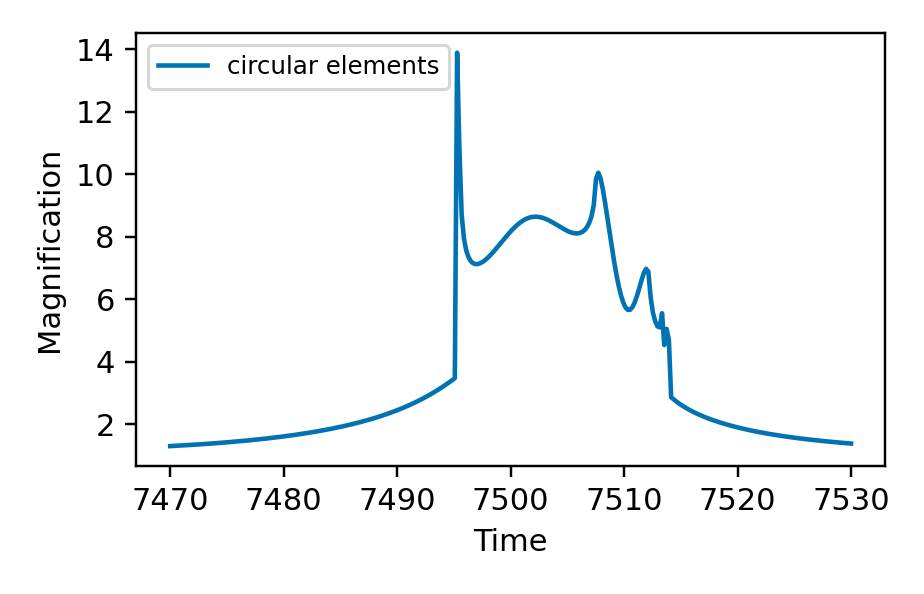
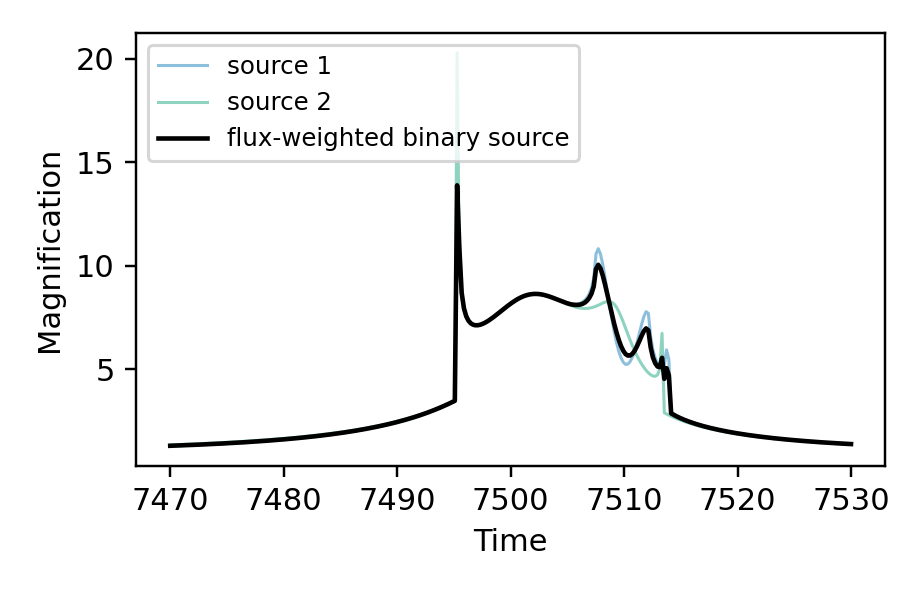
docs: show binary-source components and trajectories

diff --git a/example/docs-python/generate_figures.py b/example/docs-python/generate_figures.py
@@ -319,8 +319,8 @@ def binary_source():
     binary_magnification = binary(times, params)
 
     plt.figure(figsize=(4.8, 3.0))
-    plt.plot(times, source1_magnification, color="#0173B2", alpha=0.72, label="source 1")
-    plt.plot(times, source2_magnification, color="#029E73", alpha=0.72, label="source 2")
+    plt.plot(times, source1_magnification, color="#0173B2", alpha=0.45, lw=1.0, label="source 1")
+    plt.plot(times, source2_magnification, color="#029E73", alpha=0.45, lw=1.0, label="source 2")
     plt.plot(times, binary_magnification, color="black", lw=1.5,
              label="flux-weighted binary source")
     plt.xlabel("Time")
@@ -352,10 +352,10 @@ def binary_source_xallarap_trajectories():
     """Projected source paths for the binary velocity-xallarap convention."""
     t_ref = 7500.0
     mass_ratio = 0.7
-    times = np.linspace(t_ref - 15.0, t_ref + 15.0, 240)
+    times = np.linspace(t_ref - 30.0, t_ref + 30.0, 300)
     common = dict(
-        s=0.9, q=0.1, alpha=0.7, tE=30.0, t0=t_ref, u0=0.10, rho=0.0,
-        xi_1=0.10, xi_2=-0.06, w1=0.01, w2=0.8, w3=0.2,
+        s=0.9, q=0.1, alpha=1.0, tE=30.0, t0=t_ref, u0=0.10, rho=0.0,
+        xi_1=0.04, xi_2=-0.02, w1=0.01, w2=0.8, w3=0.2,
     )
     xallarap = lcbinint.LightCurve(
         xallarap="circular_velocity", t_ref=t_ref,
@@ -403,8 +403,20 @@ def binary_source_xallarap_lightcurve():
         source="binary", xallarap="circular_velocity",
         source_orbit_coordinates="xallarap", t_ref=7500.0,
     )
+    component_curve = lcbinint.LightCurve(xallarap="circular_velocity", t_ref=7500.0)
+    source1_params = dict(params, rho=params["rho1"])
+    for key in ("rho1", "rho2", "flux_ratio", "source_mass_ratio"):
+        source1_params.pop(key)
+    source2_params = dict(
+        source1_params,
+        rho=params["rho2"],
+        xi_1=-source1_params["xi_1"] / params["source_mass_ratio"],
+        xi_2=-source1_params["xi_2"] / params["source_mass_ratio"],
+    )
     plt.figure(figsize=(4.2, 2.7))
-    plt.plot(times, circular(times, params), color="#0173B2", label="circular velocity")
+    plt.plot(times, component_curve(times, source1_params), color="#0173B2", alpha=0.45, lw=1.0, label="source 1")
+    plt.plot(times, component_curve(times, source2_params), color="#029E73", alpha=0.45, lw=1.0, label="source 2")
+    plt.plot(times, circular(times, params), color="black", lw=1.5, label="flux-weighted binary source")
     plt.xlabel("Time")
     plt.ylabel("Magnification")
     plt.legend(loc="upper left", fontsize=8)
@@ -421,15 +433,41 @@ def binary_source_xallarap_elements_lightcurve():
     circular = lcbinint.LightCurve(
         source="binary", xallarap="circular_elements", t_ref=7500.0,
     )
+    component_curve = lcbinint.LightCurve(xallarap="circular_elements", t_ref=7500.0)
+    component_params = dict(params, period_xa=120.0, inc_xa=0.8)
+    source1_params = dict(component_params, rho=params["rho1"])
+    for key in ("rho1", "rho2", "flux_ratio", "source_mass_ratio"):
+        source1_params.pop(key)
+    source2_params = dict(
+        source1_params,
+        rho=params["rho2"],
+        xi_1=-source1_params["xi_1"] / params["source_mass_ratio"],
+        xi_2=-source1_params["xi_2"] / params["source_mass_ratio"],
+    )
     plt.figure(figsize=(4.2, 2.7))
+    plt.plot(times, component_curve(times, source1_params), color="#0173B2", alpha=0.45, lw=1.0, label="source 1")
+    plt.plot(times, component_curve(times, source2_params), color="#029E73", alpha=0.45, lw=1.0, label="source 2")
     plt.plot(
-        times, circular(times, dict(params, period_xa=120.0, inc_xa=0.8)),
-        color="#0173B2", label="circular elements",
+        times, circular(times, component_params),
+        color="black", lw=1.5, label="flux-weighted binary source",
     )
     plt.xlabel("Time")
     plt.ylabel("Magnification")
     plt.legend(loc="upper left", fontsize=8)
     save("BinarySource_xallarap_elements_lightcurve.png")
+
+    caustics = lcbinint.LightCurve().caustics(source1_params)
+    first = component_curve.source_trajectory(times, source1_params)
+    second = component_curve.source_trajectory(times, source2_params)
+    plt.figure(figsize=(3.4, 3.2))
+    plot_caustics(caustics, color="#6C6C6C", lw=1.1)
+    plt.plot(first.x, first.y, color="#0173B2", label="source 1")
+    plt.plot(second.x, second.y, color="#029E73", label="source 2")
+    plt.xlabel("Trajectory coordinate 1")
+    plt.ylabel("Trajectory coordinate 2")
+    plt.axis("equal")
+    plt.legend(fontsize=7)
+    save("BinarySource_xallarap_elements_geometry.png")
 
 
 def binary_source_xallarap_offset_lightcurve():
@@ -444,12 +482,46 @@ def binary_source_xallarap_offset_lightcurve():
         source="binary", xallarap="circular_velocity",
         source_orbit_coordinates="trajectory_offset", t_ref=7500.0,
     )
+    component_curve = lcbinint.LightCurve(xallarap="circular_velocity", t_ref=7500.0)
+    source_mass_ratio = params["source_mass_ratio"]
+    relative_tau = (params["t0"] - params["t0_2"]) / params["tE"]
+    relative_beta = params["u0_2"] - params["u0"]
+    source1_params = dict(
+        s=params["s"], q=params["q"], alpha=params["alpha"], tE=params["tE"],
+        t0=(params["t0"] + source_mass_ratio * params["t0_2"]) / (1.0 + source_mass_ratio),
+        u0=(params["u0"] + source_mass_ratio * params["u0_2"]) / (1.0 + source_mass_ratio),
+        rho=params["rho1"],
+        xi_1=-source_mass_ratio * relative_tau / (1.0 + source_mass_ratio),
+        xi_2=-source_mass_ratio * relative_beta / (1.0 + source_mass_ratio),
+        w1=params["w1"], w2=params["w2"], w3=params["w3"],
+    )
+    source2_params = dict(
+        source1_params,
+        rho=params["rho2"],
+        xi_1=-source1_params["xi_1"] / source_mass_ratio,
+        xi_2=-source1_params["xi_2"] / source_mass_ratio,
+    )
     plt.figure(figsize=(4.2, 2.7))
-    plt.plot(times, curve(times, params), color="#0173B2", label="trajectory offset")
+    plt.plot(times, component_curve(times, source1_params), color="#0173B2", alpha=0.45, lw=1.0, label="source 1")
+    plt.plot(times, component_curve(times, source2_params), color="#029E73", alpha=0.45, lw=1.0, label="source 2")
+    plt.plot(times, curve(times, params), color="black", lw=1.5, label="flux-weighted binary source")
     plt.xlabel("Time")
     plt.ylabel("Magnification")
     plt.legend(loc="upper left", fontsize=8)
     save("BinarySource_xallarap_offset_lightcurve.png")
+
+    caustics = lcbinint.LightCurve().caustics(source1_params)
+    first = component_curve.source_trajectory(times, source1_params)
+    second = component_curve.source_trajectory(times, source2_params)
+    plt.figure(figsize=(3.4, 3.2))
+    plot_caustics(caustics, color="#6C6C6C", lw=1.1)
+    plt.plot(first.x, first.y, color="#0173B2", label="source 1")
+    plt.plot(second.x, second.y, color="#029E73", label="source 2")
+    plt.xlabel("Trajectory coordinate 1")
+    plt.ylabel("Trajectory coordinate 2")
+    plt.axis("equal")
+    plt.legend(fontsize=7)
+    save("BinarySource_xallarap_offset_geometry.png")
 
 
 def binary_source_binary_lens():

diff --git a/docs/python/BinarySources.md b/docs/python/BinarySources.md
@@ -65,8 +65,8 @@ Plot the component curves and their flux-weighted binary-source result:
 
 ```python
 plt.figure(figsize=(4.8, 3.0))
-plt.plot(times, source1_magnification, color="#0173B2", alpha=0.72, label="source 1")
-plt.plot(times, source2_magnification, color="#029E73", alpha=0.72, label="source 2")
+plt.plot(times, source1_magnification, color="#0173B2", alpha=0.45, lw=1.0, label="source 1")
+plt.plot(times, source2_magnification, color="#029E73", alpha=0.45, lw=1.0, label="source 2")
 plt.plot(
     times, binary_magnification, color="black", lw=1.5,
     label="flux-weighted binary source",
@@ -152,15 +152,33 @@ circular_elements = lcbinint.LightCurve(
 circular_elements_magnification = circular_elements(
     times, dict(parameters, period_xa=120.0, inc_xa=0.8),
 )
+
+component_curve = lcbinint.LightCurve(
+    xallarap="circular_elements", t_ref=7500.0,
+)
+component_parameters = dict(parameters, period_xa=120.0, inc_xa=0.8)
+source1_params = dict(component_parameters, rho=parameters["rho1"])
+for key in ("rho1", "rho2", "flux_ratio", "source_mass_ratio"):
+    source1_params.pop(key)
+source2_params = dict(
+    source1_params,
+    rho=parameters["rho2"],
+    xi_1=-source1_params["xi_1"] / parameters["source_mass_ratio"],
+    xi_2=-source1_params["xi_2"] / parameters["source_mass_ratio"],
+)
+source1_magnification = component_curve(times, source1_params)
+source2_magnification = component_curve(times, source2_params)
 ```
 
 Plot the `circular_elements` example:
 
 ```python
 plt.figure(figsize=(4.2, 2.7))
+plt.plot(times, source1_magnification, color="#0173B2", alpha=0.45, lw=1.0, label="source 1")
+plt.plot(times, source2_magnification, color="#029E73", alpha=0.45, lw=1.0, label="source 2")
 plt.plot(
     times, circular_elements_magnification,
-    color="#0173B2", label="circular elements",
+    color="black", lw=1.5, label="flux-weighted binary source",
 )
 plt.xlabel("Time")
 plt.ylabel("Magnification")
@@ -169,6 +187,25 @@ plt.show()
 ```
 
 ![Circular-elements binary-source xallarap light curve](figures/BinarySource_xallarap_elements_lightcurve.png)
+
+```python
+source1_trajectory = component_curve.source_trajectory(times, source1_params)
+source2_trajectory = component_curve.source_trajectory(times, source2_params)
+caustics = lcbinint.LightCurve().caustics(source1_params)
+
+plt.figure(figsize=(3.4, 3.2))
+for x, y in zip(caustics.x, caustics.y):
+    plt.plot(x, y, color="#6C6C6C", lw=1.1)
+plt.plot(source1_trajectory.x, source1_trajectory.y, color="#0173B2", label="source 1")
+plt.plot(source2_trajectory.x, source2_trajectory.y, color="#029E73", label="source 2")
+plt.xlabel("Trajectory coordinate 1")
+plt.ylabel("Trajectory coordinate 2")
+plt.axis("equal")
+plt.legend(fontsize=7)
+plt.show()
+```
+
+![Circular-elements source trajectories and caustics](figures/BinarySource_xallarap_elements_geometry.png)
 
 ### Position--velocity modes
 
@@ -212,15 +249,32 @@ parameters = {
 }
 times = np.linspace(7470.0, 7530.0, 300)
 circular_velocity_magnification = circular_velocity(times, parameters)
+
+component_curve = lcbinint.LightCurve(
+    xallarap="circular_velocity", t_ref=7500.0,
+)
+source1_params = dict(parameters, rho=parameters["rho1"])
+for key in ("rho1", "rho2", "flux_ratio", "source_mass_ratio"):
+    source1_params.pop(key)
+source2_params = dict(
+    source1_params,
+    rho=parameters["rho2"],
+    xi_1=-source1_params["xi_1"] / parameters["source_mass_ratio"],
+    xi_2=-source1_params["xi_2"] / parameters["source_mass_ratio"],
+)
+source1_magnification = component_curve(times, source1_params)
+source2_magnification = component_curve(times, source2_params)
 ```
 
 Plot the `circular_velocity` example:
 
 ```python
 plt.figure(figsize=(4.2, 2.7))
+plt.plot(times, source1_magnification, color="#0173B2", alpha=0.45, lw=1.0, label="source 1")
+plt.plot(times, source2_magnification, color="#029E73", alpha=0.45, lw=1.0, label="source 2")
 plt.plot(
     times, circular_velocity_magnification,
-    color="#0173B2", label="circular velocity",
+    color="black", lw=1.5, label="flux-weighted binary source",
 )
 plt.xlabel("Time")
 plt.ylabel("Magnification")
@@ -310,15 +364,42 @@ parameters = {
 }
 times = np.linspace(7470.0, 7530.0, 300)
 trajectory_offset_magnification = curve(times, parameters)
+
+component_curve = lcbinint.LightCurve(
+    xallarap="circular_velocity", t_ref=7500.0,
+)
+q_s = parameters["source_mass_ratio"]
+t0_com = (parameters["t0"] + q_s * parameters["t0_2"]) / (1.0 + q_s)
+u0_com = (parameters["u0"] + q_s * parameters["u0_2"]) / (1.0 + q_s)
+relative_tau = (parameters["t0"] - parameters["t0_2"]) / parameters["tE"]
+relative_beta = parameters["u0_2"] - parameters["u0"]
+source1_params = {
+    "s": parameters["s"], "q": parameters["q"], "alpha": parameters["alpha"],
+    "tE": parameters["tE"], "t0": t0_com, "u0": u0_com,
+    "rho": parameters["rho1"],
+    "xi_1": -q_s * relative_tau / (1.0 + q_s),
+    "xi_2": -q_s * relative_beta / (1.0 + q_s),
+    "w1": parameters["w1"], "w2": parameters["w2"], "w3": parameters["w3"],
+}
+source2_params = dict(
+    source1_params,
+    rho=parameters["rho2"],
+    xi_1=-source1_params["xi_1"] / q_s,
+    xi_2=-source1_params["xi_2"] / q_s,
+)
+source1_magnification = component_curve(times, source1_params)
+source2_magnification = component_curve(times, source2_params)
 ```
 
 Plot the binary-source light curve for this `trajectory_offset` convention:
 
 ```python
 plt.figure(figsize=(4.2, 2.7))
+plt.plot(times, source1_magnification, color="#0173B2", alpha=0.45, lw=1.0, label="source 1")
+plt.plot(times, source2_magnification, color="#029E73", alpha=0.45, lw=1.0, label="source 2")
 plt.plot(
     times, trajectory_offset_magnification,
-    color="#0173B2", label="trajectory offset",
+    color="black", lw=1.5, label="flux-weighted binary source",
 )
 plt.xlabel("Time")
 plt.ylabel("Magnification")
@@ -327,6 +408,25 @@ plt.show()
 ```
 
 ![Trajectory-offset binary-source xallarap light curve](figures/BinarySource_xallarap_offset_lightcurve.png)
+
+```python
+source1_trajectory = component_curve.source_trajectory(times, source1_params)
+source2_trajectory = component_curve.source_trajectory(times, source2_params)
+caustics = lcbinint.LightCurve().caustics(source1_params)
+
+plt.figure(figsize=(3.4, 3.2))
+for x, y in zip(caustics.x, caustics.y):
+    plt.plot(x, y, color="#6C6C6C", lw=1.1)
+plt.plot(source1_trajectory.x, source1_trajectory.y, color="#0173B2", label="source 1")
+plt.plot(source2_trajectory.x, source2_trajectory.y, color="#029E73", label="source 2")
+plt.xlabel("Trajectory coordinate 1")
+plt.ylabel("Trajectory coordinate 2")
+plt.axis("equal")
+plt.legend(fontsize=7)
+plt.show()
+```
+
+![Trajectory-offset source trajectories and caustics](figures/BinarySource_xallarap_offset_geometry.png)
 
 Choose `t_ref` near the event centre or the centre of the data span.  This
 makes the stated positional anchor useful and usually reduces parameter
